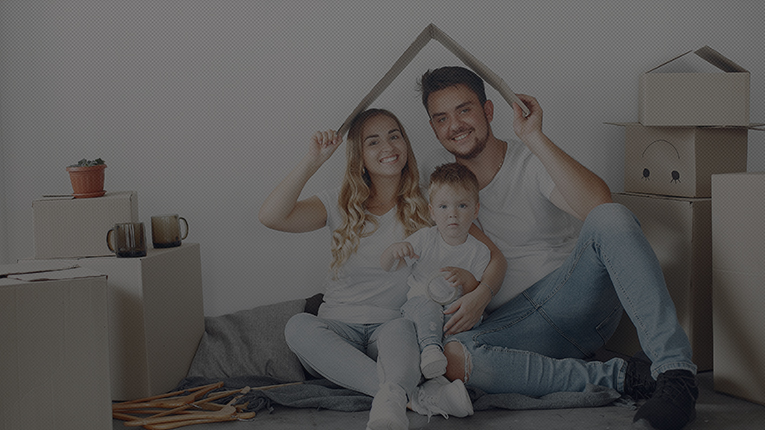
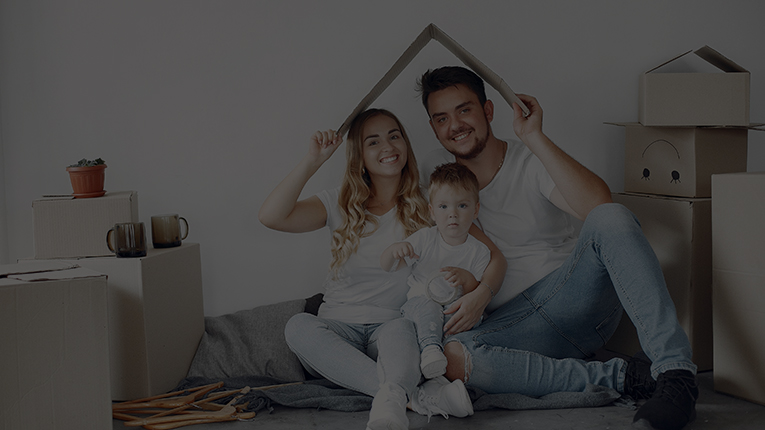
Slide e Parceiros
imagem dos slides alterado, e seção de parceiros adicionado

Changed region(s): [[0.0, 0.0, 1.0, 0.5442]]

diff --git a/index.html b/index.html
@@ -42,7 +42,11 @@
           <li class="nav-item mx-0 mx-lg-1"><a class="nav-link py-3 px-0 px-lg-2 rounded js-scroll-trigger"
               href="#fazemos">O que fazemos</a></li>
           <li class="nav-item mx-0 mx-lg-1"><a class="nav-link py-3 px-0 px-lg-2 rounded js-scroll-trigger"
+              href="#vantagem">Vantagem</a></li>
+          <li class="nav-item mx-0 mx-lg-1"><a class="nav-link py-3 px-0 px-lg-2 rounded js-scroll-trigger"
               href="#quemSomos">Quem Somos</a></li>
+          <li class="nav-item mx-0 mx-lg-1"><a class="nav-link py-3 px-0 px-lg-2 rounded js-scroll-trigger"
+              href="#equipe">Equipe</a></li>
           <li class="nav-item mx-0 mx-lg-1"><a class="nav-link py-3 px-0 px-lg-2 rounded js-scroll-trigger"
               href="#redeSociais">Redes Sociais</a></li>
           <li class="nav-item mx-0 mx-lg-1"><a class="nav-link py-3 px-0 px-lg-2 rounded js-scroll-trigger"
@@ -68,10 +72,10 @@
         <div class="carousel-caption textSlider">
           <h5> <img src="assets/img/portfolio/LogoBranca.png" alt=""> </h5>
           <p>O primeiro passo para você construir a sua casa.</p>
-          <div class="text-center  mt-2">
-            <a class="btn btn-dark" href="#">
-              <i class="sabiaMais"></i>
-              SABIA COMO
+          <div class="text-center mt-4">
+            <a class="botttunDescubra btn btn-secondary" href="#">
+              <i class="botttunDescubra"></i>
+              Descubra
             </a>
           </div>
 
@@ -81,11 +85,11 @@
         <img src="assets/img/portfolio/slide2.jpg" class="d-block w-100" alt="...">
         <div class="carousel-caption textSlider">
           <h5> <strong> Second slide label </strong> </h5>
-          <p>CONSTRUIR A CASA DOS SEUS SONHOS PODE CUSTAR BEM MENOS DO QUÊ VOCÊ IMAGINA</p>
+          <p>Construir a casa dos seus sonhos pode custar bem menos do que você imagina</p>
           <div class="text-center mt-4">
-            <a class="btn btn-dark" href="#">
-              <i class="sabiaMais"></i>
-              SABIA COMO
+            <a class="botttunDescubra btn btn-secondary" href="#">
+              <i class="botttunDescubra"></i>
+              Descubra
             </a>
           </div>
 
@@ -97,9 +101,9 @@
           <h5> <strong>Third slide label </strong> </h5>
           <p>Praesent commodo cursus magna, vel scelerisque nisl consectetur.</p>
           <div class="text-center mt-4">
-            <a class="btn btn-dark" href="#">
-              <i class="sabiaMais"></i>
-              SABIA COMO
+            <a class="botttunDescubra btn btn-secondary" href="#">
+              <i class="botttunDescubra"></i>
+              Descubra
             </a>
           </div>
         </div>
@@ -164,7 +168,7 @@
   <!-- O que fazemos - video-->
 
   <!-- About Section-->
-  <section class="page-section taxaCredito text-black mb-0">
+  <section class="taxaCredito page-section text-black mb-0">
     <div class="container">
       <!-- About Section Heading-->
       <h2 class="page-section-heading text-center text-uppercase ">Taxa de crédito imobiliário
@@ -184,6 +188,9 @@
       </div>
     </div>
   </section>
+
+
+
   <!--Card de vantagems-->
   <section class="page-section text-black m-0" id="vantagem">
     <div class="container">
@@ -228,7 +235,7 @@
     </div>
   </section>
   <!-- About Section-->
-  <section class="page-section quemSomos text-black mb-0">
+  <section class="quemSomos page-section text-black mb-0" id="quemSomos">
     <div class="container">
       <!-- About Section Heading-->
       <h2 class="page-section-heading text-center text-uppercase text-black">QUEM SOMOS</h2>
@@ -255,8 +262,8 @@
 
 
 
-  <!--Perfil de Card-->
-  <section class="page-section text-black m-0" id="vantagem">
+  <!--Equipe-->
+  <section class="page-section text-black m-0" id="equipe">
     <div class="container">
       <h2 class="text-vantagem text-center text-uppercase ">Equipe
       </h2>
@@ -287,10 +294,26 @@
       </div>
     </div>
   </section>
+  <!--Equipe-->
 
 
-  <!--Perfil de Card-->
 
+  <!-- Parceirosr-->
+  <footer class="parceiros text-center">
+    <div class="container">
+      <div class="row">
+        <!-- Parceiros Icons-->
+        <div class="paceirosImg">
+          <h4 class="text-uppercase mb-4">Parceiros</h4>
+          <img src="assets/img/portfolio/LogoPreta.png" width="100px" height="100px" alt="">
+          <img src="assets/img/portfolio/LogoPreta.png" width="100px" height="100px" alt="">
+          <img src="assets/img/portfolio/LogoPreta.png" width="100px" height="100px" alt="">
+          <img src="assets/img/portfolio/LogoPreta.png" width="100px" height="100px" alt="">
+        </div>
+      </div>
+    </div>
+  </footer>
+  <!-- Parceirosr-->
 
 
 
@@ -302,24 +325,27 @@
         <div class="col-lg-4 mb-5 mb-lg-0">
           <h4 class="text-uppercase mb-4">Localização</h4>
           <p class="lead mb-0">
-            2215 John Daniel Drive
-            <br />
-            Clark, MO 65243
+            Iguatu, Ceará , Brasil
           </p>
         </div>
         <!-- Footer Social Icons-->
         <div class="col-lg-4 mb-5 mb-lg-0" id="redeSociais">
           <h4 class="text-uppercase mb-4">Redes Sociais</h4>
-          <a class="btn btn-outline-light btn-social mx-1" href="#!"><i class="fab fa-fw fa-facebook-f"></i></a>
-          <a class="btn btn-outline-light btn-social mx-1" href="#!"><i class="fab fa-fw fa-twitter"></i></a>
+          <a class="btn btn-outline-light btn-social mx-1"
+            href="https://www.facebook.com/laprojetosengenhariaedesign"><i class="fab fa-fw fa-facebook-f"></i></a>
+          <a class="btn btn-outline-light btn-social mx-1" href="#!"><i class="fab fa-whatsapp"></i></a>
           <a class="btn btn-outline-light btn-social mx-1" href="#!"><i class="fab fa-fw fa-linkedin-in"></i></a>
-          <a class="btn btn-outline-light btn-social mx-1" href="#!"><i class="fab fa-fw fa-dribbble"></i></a>
+          <a class="btn btn-outline-light btn-social mx-1" href="https://www.instagram.com/laengenhariaedesign3/"><i
+              class="fab fa-instagram"></i></a>
         </div>
         <!-- Footer About Text-->
-
       </div>
     </div>
   </footer>
+  <!-- Footer-->
+
+
+
   <!-- Copyright Section-->
   <div class="copyright py-4 text-center text-white">
     <div class="container">
@@ -331,11 +357,17 @@
       </small>
     </div>
   </div>
+  <!-- Copyright Section-->
+
+
+  <!--Botão de subir para o top-->
   <!-- Scroll to Top Button (Only visible on small and extra-small screen sizes)-->
-  <div class="scroll-to-top d-lg-none position-fixed">
+  <div class="scroll-to-top position-fixed">
     <a class="js-scroll-trigger d-block text-center text-white rounded" href="#page-top"><i
         class="fa fa-chevron-up"></i></a>
   </div>
+  <!--Botão de subir para o top-->
+
 
 
   <!-- Bootstrap core JS-->
@@ -343,8 +375,6 @@
   <script src="https://cdn.jsdelivr.net/npm/bootstrap@4.6.0/dist/js/bootstrap.bundle.min.js"></script>
   <!-- Third party plugin JS-->
   <script src="https://cdnjs.cloudflare.com/ajax/libs/animejs/3.2.1/anime.min.js"></script>
-
-
   <!-- Contact form JS-->
   <script src="assets/mail/jqBootstrapValidation.js"></script>
   <script src="assets/mail/contact_me.js"></script>

diff --git a/css/styles.css b/css/styles.css
@@ -9,14 +9,8 @@
   --danger: #dc3545;
   --light: #f8f9fa;
   --dark: #343a40;
-  --breakpoint-xs: 0;
-  --breakpoint-sm: 576px;
-  --breakpoint-md: 768px;
-  --breakpoint-lg: 992px;
-  --breakpoint-xl: 1200px;
   --font-family-sans-serif: "Lato", -apple-system, BlinkMacSystemFont, "Segoe UI", Roboto, "Helvetica Neue", Arial, "Noto Sans", sans-serif, "Apple Color Emoji", "Segoe UI Emoji", "Segoe UI Symbol", "Noto Color Emoji";
   --font-family-monospace: SFMono-Regular, Menlo, Monaco, Consolas, "Liberation Mono", "Courier New", monospace;
-  --opacidadeBackgroundSlide: 0.3;
 }
 
 *,
@@ -86,6 +80,30 @@ body {
 }
 
 /*Mobile*/
+@media (min-width: 320px) { 
+  /*Muda a posição do slide em relação ao menu*/
+  .slide{
+    margin-top: 14rem;
+  }
+  
+  /*Muda o texto do slide posição*/
+  .textSlider h5{
+    font-size: 1.5rem;
+    color: var(--light);
+    text-align: center;
+  }
+  .textSlider p{
+    margin-bottom: -0.5rem;
+    font-size: 1rem;
+    color: var(--light);
+    text-align: center;
+  }
+  .textSlider img {
+    height: 90px;
+    width: 90px;
+  }
+
+}
 @media (min-width: 411px) { 
     /*Muda a posição do slide em relação ao menu*/
     .slide{
@@ -100,7 +118,7 @@ body {
     }
     .textSlider p{
       margin-bottom: -0.5rem;
-      font-size: 0.9rem;
+      font-size: 1rem;
       color: var(--light);
       text-align: center;
     }
@@ -123,7 +141,6 @@ body {
       text-align: center;
     }
     .textSlider p{
-      margin-bottom: 10%;
       font-size: 1rem;
       color: var(--light);
       text-align: center;
@@ -131,6 +148,15 @@ body {
     .textSlider img {
       height: 150px;
       width: 150px;
+    }
+    .botttunDescubra{
+      margin-bottom: 4rem;
+      width: 200px;
+      height: 40px;
+      background-color: var(--amareloLA);
+    }
+    .botttunDescubra a {
+      color: white;
     }
 
  }
@@ -144,13 +170,12 @@ body {
 
   /*Muda o texto do slide posição*/
   .textSlider h5{
-    
     font-size: 3rem;
     color: var(--light);
     text-align: center;
   }
   .textSlider p{
-    margin-bottom: 10%;
+    
     font-size: 1.5rem;
     color: var(--light);
     text-align: center;
@@ -158,6 +183,11 @@ body {
   .textSlider img {
     height: 200px;
     width: 200px;
+  }
+  .botttunDescubra{
+    margin-bottom: 4rem;
+    width: 200px;
+    height: 40px;
   }
 
  }
@@ -176,7 +206,6 @@ body {
     text-align: center;
   }
   .textSlider p{
-    margin-bottom: 20%;
     font-size: 1.5rem;
     color: var(--light);
     text-align: center;
@@ -184,6 +213,11 @@ body {
   .textSlider img {
     height: 250px;
     width: 250px;
+  }
+  .botttunDescubra{
+    margin-bottom: 6rem;
+    width: 200px;
+    height: 40px;
   }
 
  }
@@ -203,7 +237,7 @@ body {
     text-align: center;
   }
   .textSlider p{
-    margin-bottom: 20%;
+    margin-bottom: 1rem;
     font-size: 3rem;
     color: var(--light);
     text-align: center;
@@ -211,6 +245,11 @@ body {
   .textSlider img {
     height: 400px;
     width: 400px;
+  }
+  .botttunDescubra{
+    margin-bottom: 20rem;
+    width: 200px;
+    height: 40px;
   }
 
 }
@@ -5084,6 +5123,7 @@ h3 {
   margin-top: 1rem;
 }
 #mainNav .navbar-nav li.nav-item a.nav-link {
+  font-size: 0.92rem;
   color: var(--dark);
 }
 #mainNav .navbar-nav li.nav-item a.nav-link:hover {
@@ -5107,7 +5147,7 @@ h3 {
     transition: padding-top 0.3s, padding-bottom 0.3s;
   }
   #mainNav .navbar-brand {
-    font-size: 1.75em;
+    font-size: 1.2rem;
     transition: font-size 0.3s;
   }
   #mainNav .navbar-nav {
@@ -5127,7 +5167,7 @@ h3 {
     padding-bottom: 0.5rem;
   }
   #mainNav.navbar-shrink .navbar-brand {
-    font-size: 1.5em;
+    font-size: 1.5rem;
   }
 }
 /*Muda a cor do banner abaixo do menu*/
@@ -5254,10 +5294,20 @@ form .row:first-child .floating-label-form-group {
 .footer {
   padding-top: 5rem;
   padding-bottom: 5rem;
-  background-color: var(--dark);
+  background-color: black;
   color: #fff;
 }
+
+.parceiros {
+  padding-top: 5rem;
+  padding-bottom: 5rem;
+  background-color: var(--amareloLA);
+  color:black;
+}
+.paceirosImg{
+  margin: auto;
+}
 .copyright {
-  background-color: var(--dark);
+  background-color: black;
 }
 
